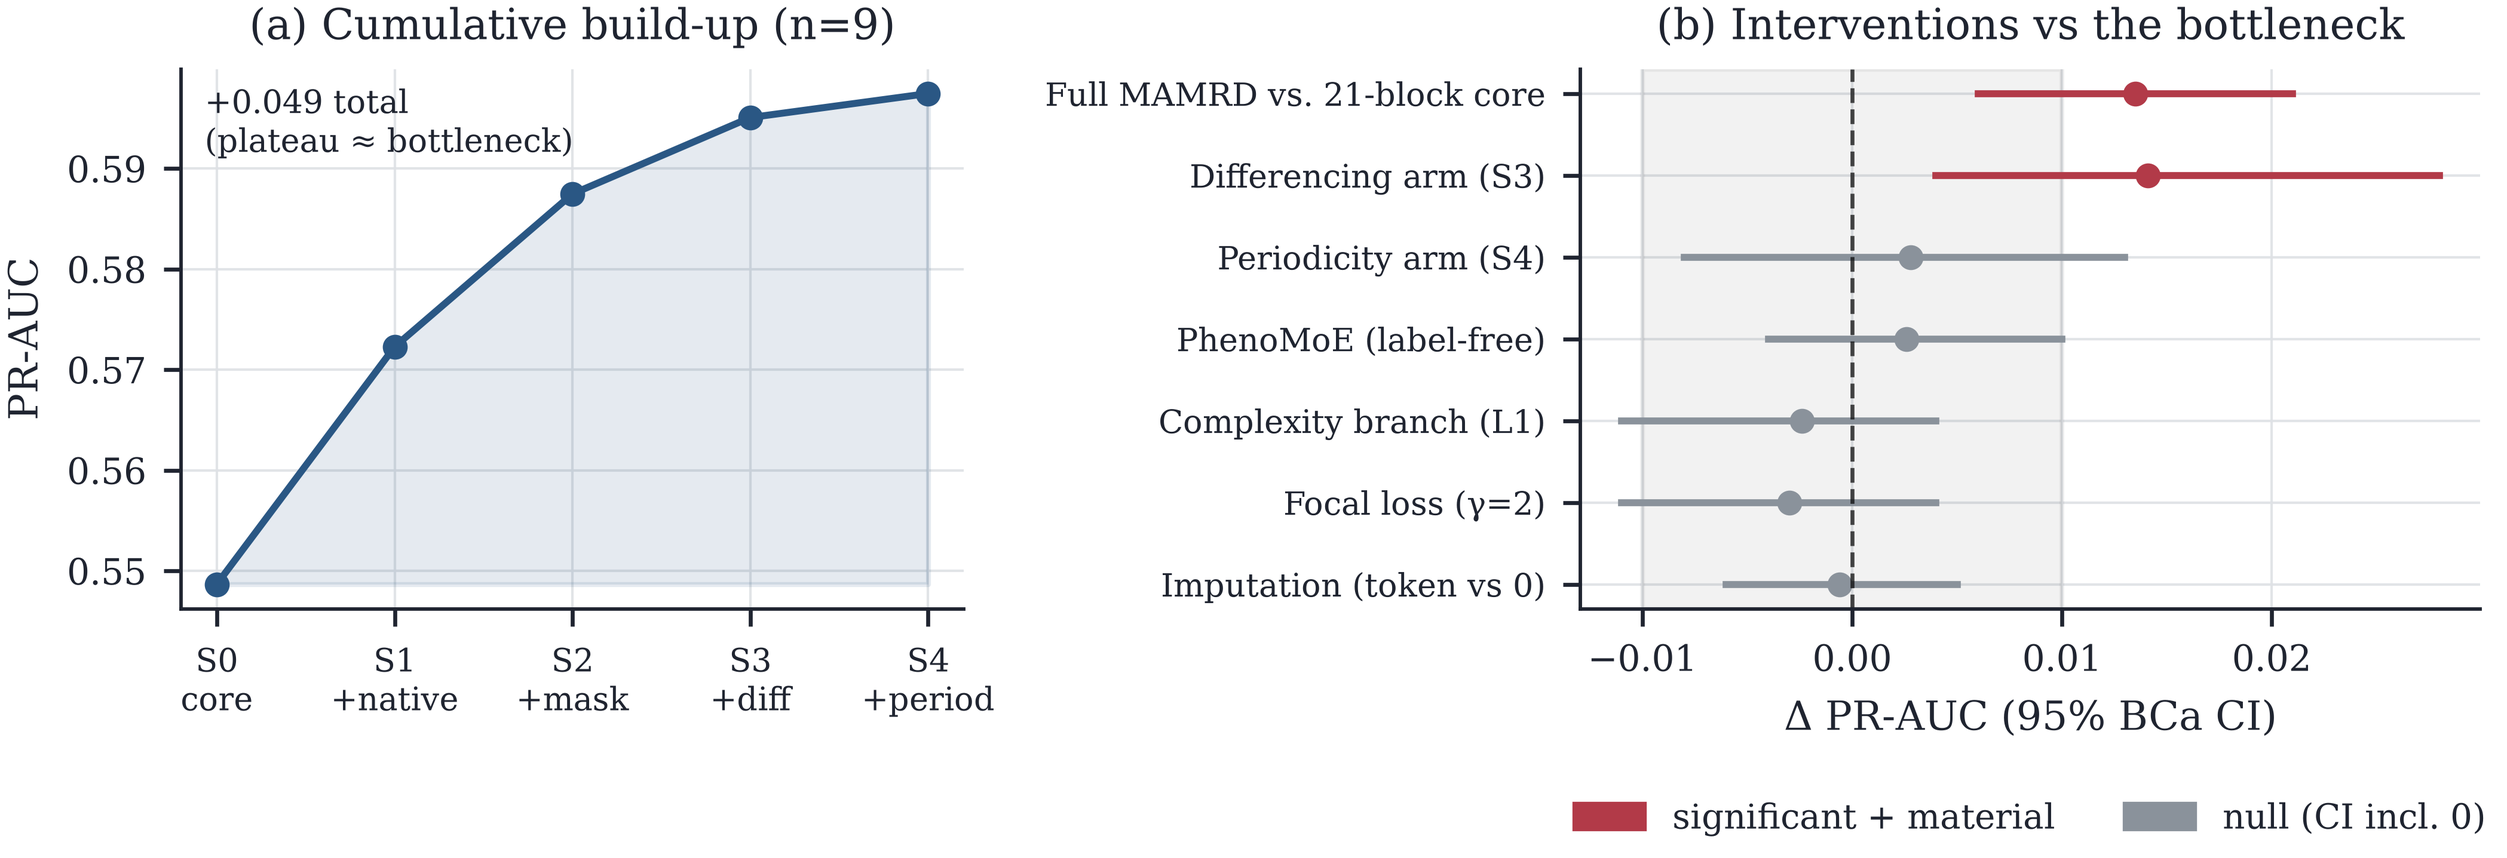
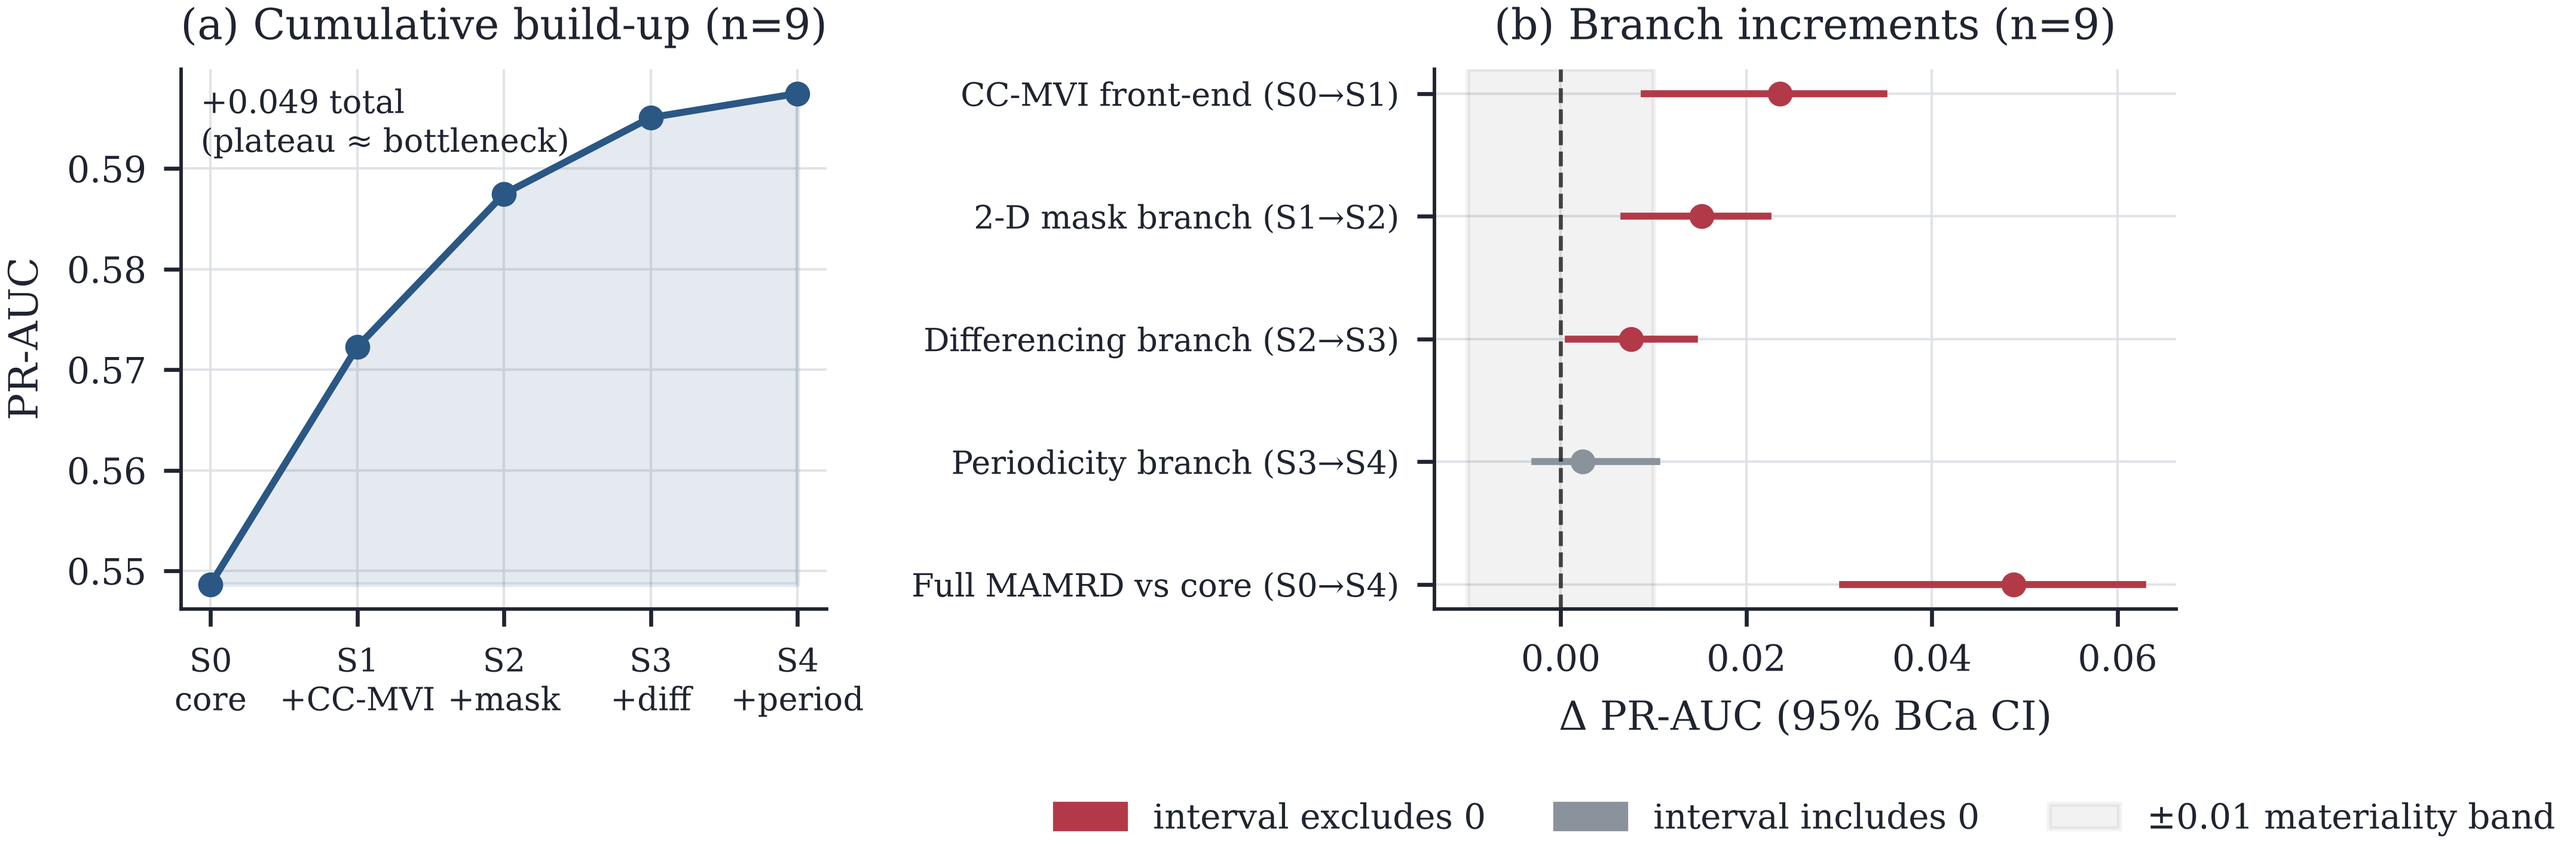
Supp. Fig. S1(b): read the branch increments from the Table 5 ledger
Panel (b) of Supp. Fig. S1 previously plotted hand-entered values from
development runs made under the earlier lexicographic SGCC column order.
It now reads r2_audit/table5_ablation.csv (written by
compute_r2_revisions.py), so it shows the same paired increments and BCa
intervals as Table 5 of the retrained results. The Tier 1 suite was rerun:
every table and every other figure regenerates unchanged.

diff --git a/scripts/make_figures.py b/scripts/make_figures.py
@@ -4,7 +4,7 @@ Senior-researcher figure set carrying the three contributions:
   Fig 1  metric_inflation   — C3: ROC/MAP@100 high, full PR-AUC collapses (per model)
   Fig 2  two_dataset_bars   — protocol-matched 5-baseline x 2-dataset PR-AUC (+CI)
   Fig 3  phenotype          — C1: per-phenotype PR-AUC varies 0.36-0.65 while ROC ~flat
-  Fig 4  ceiling            — C2: (a) cumulative build-up plateau (b) lever forest plot
+  Fig 4  ceiling            — Supp. Fig. S1: (a) cumulative build-up (b) per-branch increments (Table 5 ledger)
   Fig 5  pr_roc_curves      — pooled PR & ROC curves, a34 vs baselines (SGCC)
 
 Reads locked CSVs from results/phase_n_retrained/. Outputs vector PDF + PNG preview to
@@ -153,10 +153,13 @@ def fig_phenotype(d):
 
 
 def fig_ceiling(d):
-    """C2: (a) cumulative build-up plateau; (b) lever forest plot."""
+    """Supp. Fig. S1: (a) cumulative build-up; (b) per-branch increments with 95% BCa CI.
+
+    Panel (b) reads r2_audit/table5_ablation.csv, written by compute_r2_revisions.py
+    (the paired increments of Table 5), so the figure carries no hand-entered values."""
     fig, (axL, axR) = plt.subplots(1, 2, figsize=(DOUBLE, 2.8), gridspec_kw={"width_ratios": [1, 1.15]})
     # (a) build-up — paired means on common cells
-    stages = [("S0\ncore", N / "bu/a34_bu0_core_*.csv"), ("S1\n+native", N / "bu/a34_bu1_ccname_*.csv"),
+    stages = [("S0\ncore", N / "bu/a34_bu0_core_*.csv"), ("S1\n+CC-MVI", N / "bu/a34_bu1_ccname_*.csv"),
               ("S2\n+mask", N / "bu/a34_bu2_mask_*.csv"), ("S3\n+diff", N / "bu/a33_generic_*.csv"),
               ("S4\n+period", N / "a34_cell_*.csv")]
     sd = [(_load_cells(str(p))) for _, p in stages]
@@ -170,29 +173,27 @@ def fig_ceiling(d):
     if np.isfinite(means[0]):
         axL.text(0.03, 0.97, f"+{means[-1]-means[0]:.3f} total\n(plateau ≈ bottleneck)",
                  transform=axL.transAxes, ha="left", va="top", fontsize=6.5, color=TOL["dark"])
-    # (b) lever forest plot — locked Δ PR-AUC vs a14/a33 (from CLAIMS_N + build-up)
-    levers = [  # (label, delta, lo, hi)
-        ("Imputation (token vs 0)", -0.0006, -0.006, 0.005),
-        ("Focal loss (γ=2)",        -0.0030, -0.011, 0.004),
-        ("Complexity branch (L1)",  -0.0024, -0.011, 0.004),
-        ("PhenoMoE (label-free)",   +0.0026, -0.004, 0.010),
-        ("Periodicity arm (S4)",    +0.0028, -0.008, 0.013),
-        ("Differencing arm (S3)",   +0.0141, +0.004, 0.028),
-        ("Full MAMRD vs. 21-block core", +0.0135, +0.006, 0.021),
-    ]
-    yy = np.arange(len(levers))
-    for i, (lab, dlt, lo, hi) in enumerate(levers):
+    # (b) per-branch increments from the Table 5 ledger (step = S_k - S_{k-1}; cum = S4 - S0)
+    led = {r["variant"]: r for r in csv.DictReader(open(N / "r2_audit" / "table5_ablation.csv"))
+           if r["panel"] == "A"}
+    levers = [("CC-MVI front-end (S0→S1)", "S1", "step"), ("2-D mask branch (S1→S2)", "S2", "step"),
+              ("Differencing branch (S2→S3)", "S3", "step"), ("Periodicity branch (S3→S4)", "S4", "step"),
+              ("Full MAMRD vs core (S0→S4)", "S4", "cum")]
+    for i, (lab, v, kind) in enumerate(levers):
+        dlt, lo, hi = (float(led[v][f"{kind}_{c}"]) for c in ("delta", "lo", "hi"))
         sig = lo > 0 or hi < 0
         c = TOL["red"] if sig else TOL["grey"]
         axR.plot([lo, hi], [i, i], "-", color=c, lw=1.4)
         axR.plot(dlt, i, "o", color=c, ms=4)
     axR.axvline(0, ls="--", lw=0.8, color="k", alpha=0.7)
     axR.axvspan(-0.01, 0.01, color="k", alpha=0.05)
-    axR.set_yticks(yy); axR.set_yticklabels([l[0] for l in levers], fontsize=6.5)
-    axR.set_xlabel("Δ PR-AUC (95% BCa CI)"); axR.set_title("(b) Interventions vs the bottleneck")
-    axR.legend(handles=[Patch(color=TOL["red"], label="significant + material"),
-                        Patch(color=TOL["grey"], label="null (CI incl. 0)")],
-               loc="upper center", bbox_to_anchor=(0.5, -0.30), ncol=2)
+    axR.set_yticks(np.arange(len(levers))); axR.set_yticklabels([l[0] for l in levers], fontsize=6.5)
+    axR.invert_yaxis()
+    axR.set_xlabel("Δ PR-AUC (95% BCa CI)"); axR.set_title(f"(b) Branch increments (n={led['S4']['n_cells']})")
+    axR.legend(handles=[Patch(color=TOL["red"], label="interval excludes 0"),
+                        Patch(color=TOL["grey"], label="interval includes 0"),
+                        Patch(color="k", alpha=0.05, label="±0.01 materiality band")],
+               loc="upper center", bbox_to_anchor=(0.5, -0.30), ncol=3)
     _save(fig, "fig4_ceiling")
 
 

diff --git a/README.md b/README.md
@@ -301,7 +301,7 @@ Every result reported in the manuscript is traceable to its corresponding config
 | **Supp. Tables S2, S4** | Per-group PR-AUC of MAMRD and all detectors | 15 MAMRD / 9 baseline cells; BCa; paired gap over 9 common cells | `scripts/compute_table_b.py` | `tableB/tableB_agg.csv`, `tableB/tableB_gap.csv` |
 | **Supp. Table S3** | Prevalence-matched per-group contrasts | negatives subsampled to a common prevalence (100 draws); paired BCa over 15 cells; Friedman test | `scripts/compute_table_c.py` → `scripts/table_c_contrasts.py` | `tableC/tableC_contrasts.csv`, `tableC/tableC_friedman.csv` |
 | **Supp. Table S7** | ECL metric suite | 9 cells; $F_1$ at the per-fold maximising threshold (oracle); MAP@100 tie-neutral | `scripts/make_ecl_board.py` | `ecl_board.csv` |
-| **Supp. Figs. S1, S2, S3** | Detectability ceiling; metric inflation; illustrative mechanism | — | `scripts/make_figures.py`, `scripts/make_mechanism_figure.py` | `figures/fig4_ceiling.pdf`, `figures/fig1_metric_inflation.pdf`, `figures/fig_mechanism.pdf` |
+| **Supp. Figs. S1, S2, S3** | Detectability ceiling; metric inflation; illustrative mechanism | S1(b): per-branch increments read from the Table 5 ledger `r2_audit/table5_ablation.csv` (no hand-entered values) | `scripts/make_figures.py`, `scripts/make_mechanism_figure.py` | `figures/fig4_ceiling.pdf`, `figures/fig1_metric_inflation.pdf`, `figures/fig_mechanism.pdf` |
 | **Table 1, Supp. Table S1, Figure 1, Supp. Fig. S5** | Layer specification, training hyper-parameters, architecture and workflow schematics | not data-driven: written from the model and training code (`scripts/phased/models.py`, `zkmix_lab/training.py` `TrainConfig`); parameter counts as in Supp. Table S5 | `scripts/make_compute_table.py` (parameter counts) | — (schematics are drawn, not generated) |
 | **Supp. Table S5** | Parameters, inference latency, peak memory | hardware measurement on the Tier 2 machine (RTX 5070 Ti Laptop GPU, batch 256, median of three runs); not part of Tier 1 | `scripts/make_compute_table.py` | `logs/make_compute_table_run1.log` to `_run3.log`; HORLN and GRU-D rows: `logs/make_compute_table_horln_grud_run1.log` to `_run3.log` |
 | **Text (Intro., Methods)** | Mask-only classifier; missing-rate statistics; router cutoffs | 3 folds | `scripts/compute_r2_revisions.py` | `r2_audit/mask_only_baseline.csv`, `r2_audit/router_params.csv` |
